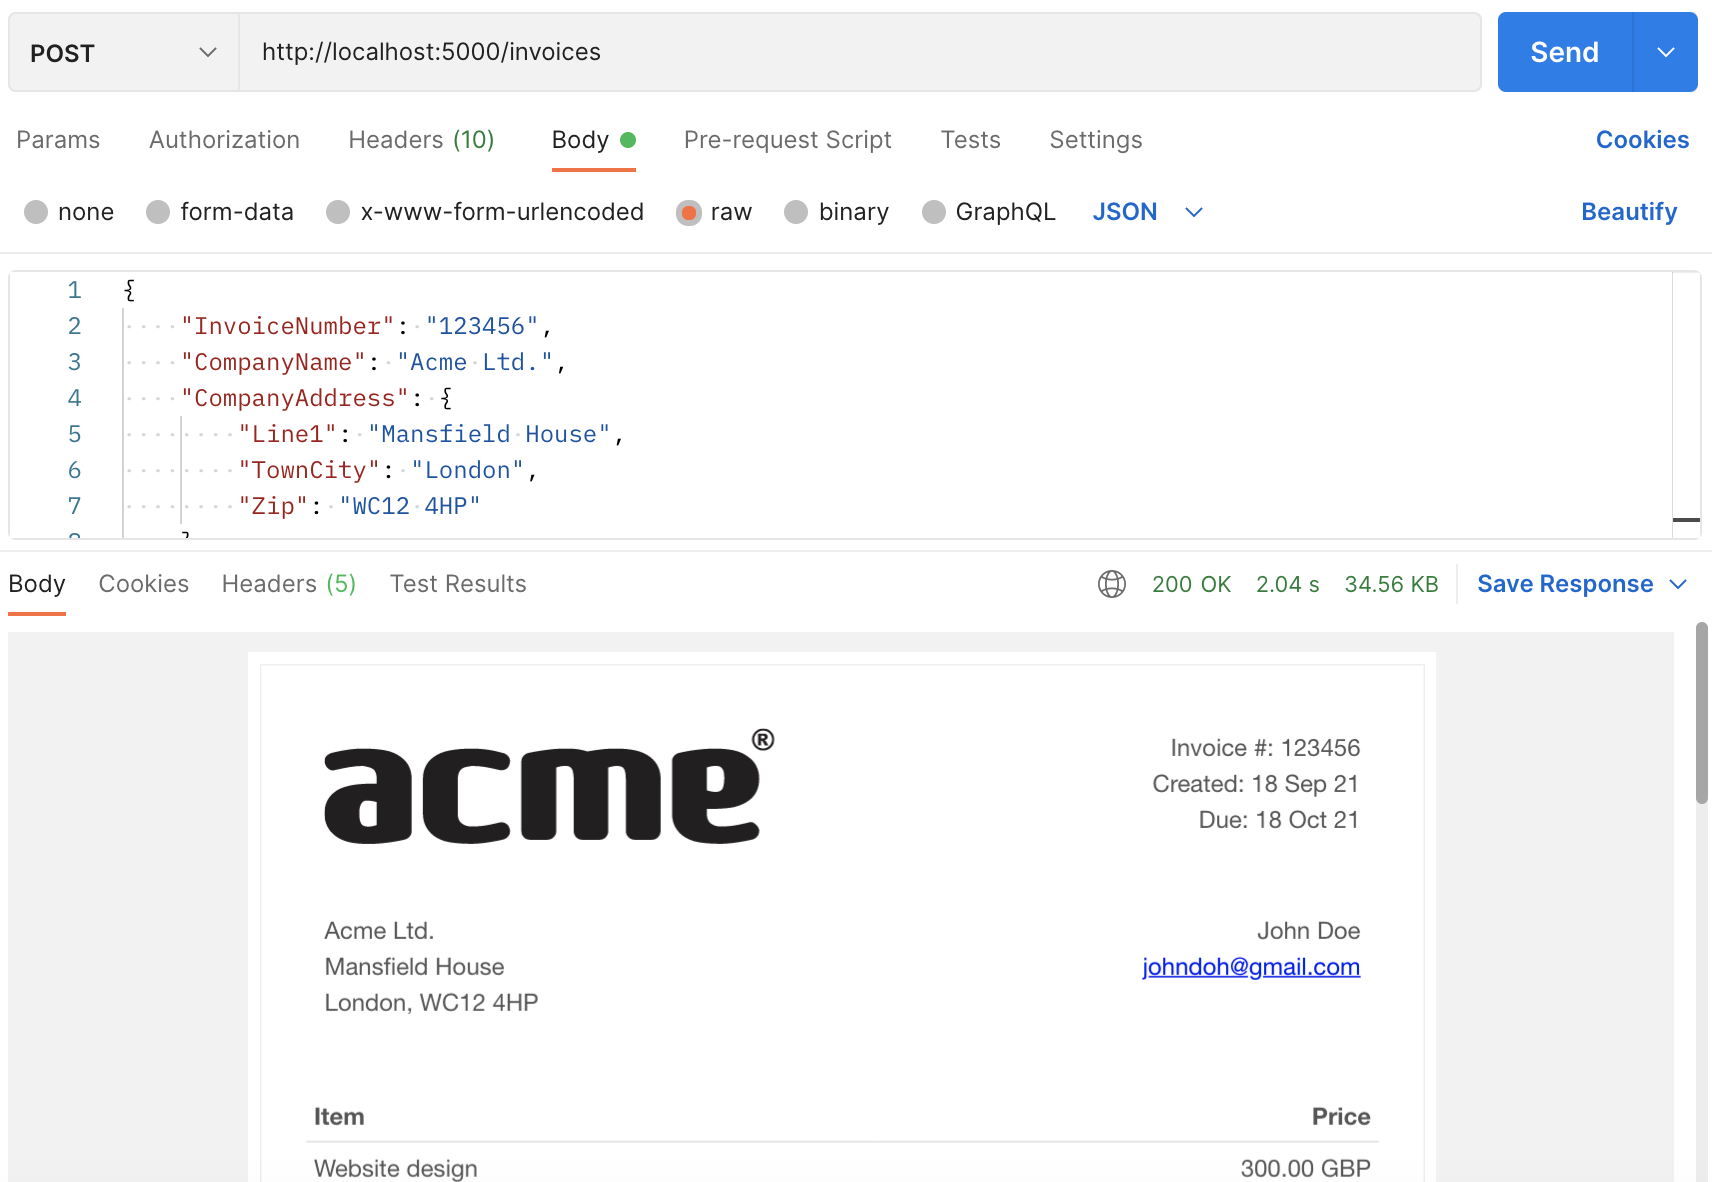
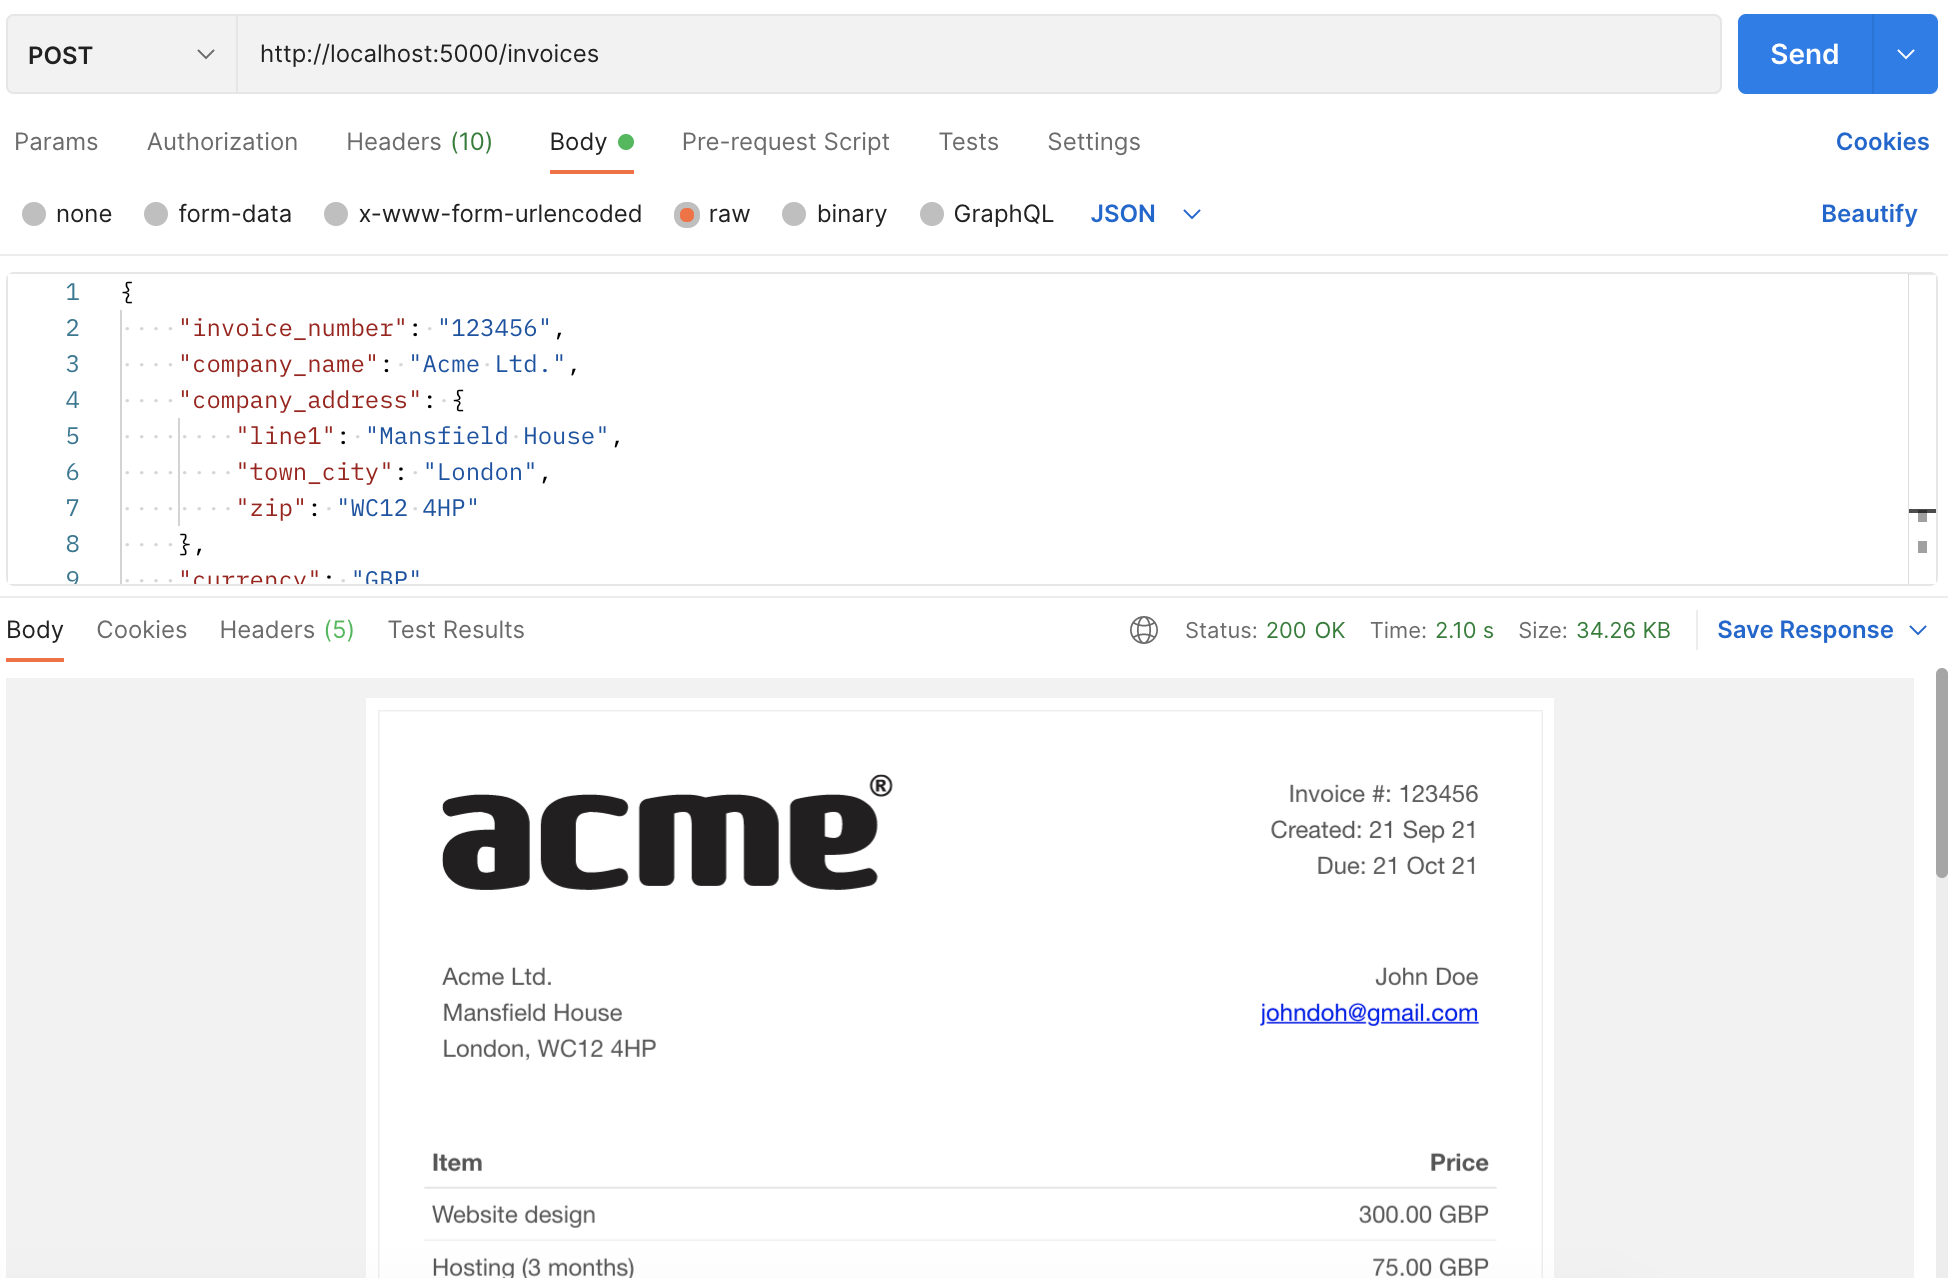
Use snake case JSON formatting

diff --git a/src/Minvoice/Program.cs b/src/Minvoice/Program.cs
@@ -1,10 +1,15 @@
 using System.ComponentModel.DataAnnotations;
 using System.Net.Mime;
 using Fluid;
+using Microsoft.AspNetCore.Http.Json;
 using Microsoft.Playwright;
+using O9d.Json.Formatting;
 
 var builder = WebApplication.CreateBuilder(args);
-var app = builder.Build();
+builder.Services.Configure<JsonOptions>(options =>
+{
+    options.SerializerOptions.PropertyNamingPolicy = new JsonSnakeCaseNamingPolicy();
+});
 
 var templateSource = await File.ReadAllTextAsync(Path.Combine(AppDomain.CurrentDomain.BaseDirectory, "invoice-template.html"));
 var parser = new FluidParser();
@@ -18,6 +23,8 @@ if (!parser.TryParse(templateSource, out var template, out var error))
 {
     throw new Exception(error);
 }
+
+var app = builder.Build();
 
 app.MapPost("/invoices", async (InvoiceRequest invoiceRequest) =>
 {

diff --git a/README.md b/README.md
@@ -26,34 +26,34 @@ POST http://localhost:5000/invoices HTTP/1.1
 content-type: application/json
 
 {
-  "InvoiceNumber": "123456",
-  "CompanyName": "Acme Ltd.",
-  "CompanyAddress": {
-    "Line1": "Mansfield House",
-    "TownCity": "London",
-    "Zip": "WC12 4HP"
+  "invoice_number": "123456",
+  "company_name": "Acme Ltd.",
+  "company_address": {
+    "line1": "Mansfield House",
+    "town_city": "London",
+    "zip": "WC12 4HP"
   },
-  "Currency": "GBP",
-  "Title": "Invoice from Acme",
-  "Recipient": {
-    "Name": "John Doe",
-    "Email": "johndoh@gmail.com"
+  "currency": "GBP",
+  "title": "Invoice from Acme",
+  "recipient": {
+    "name": "John Doe",
+    "email": "johndoh@gmail.com"
   },
-  "Items": [
+  "items": [
     {
-      "Title": "Website design",
-      "Amount": 300.00
+      "title": "Website design",
+      "amount": 300.00
     },
     {
-      "Title": "Hosting (3 months)",
-      "Amount": 75.00
+      "title": "Hosting (3 months)",
+      "amount": 75.00
     },
     {
-      "Title": "Domain name (1 year)",
-      "Amount": 10.00
+      "title": "Domain name (1 year)",
+      "amount": 10.00
     }
   ],
-  "LogoUrl": "https://upload.wikimedia.org/wikipedia/commons/8/80/Logo_acme.svg"
+  "logo_url": "https://upload.wikimedia.org/wikipedia/commons/8/80/Logo_acme.svg"
 }
 ```
 
